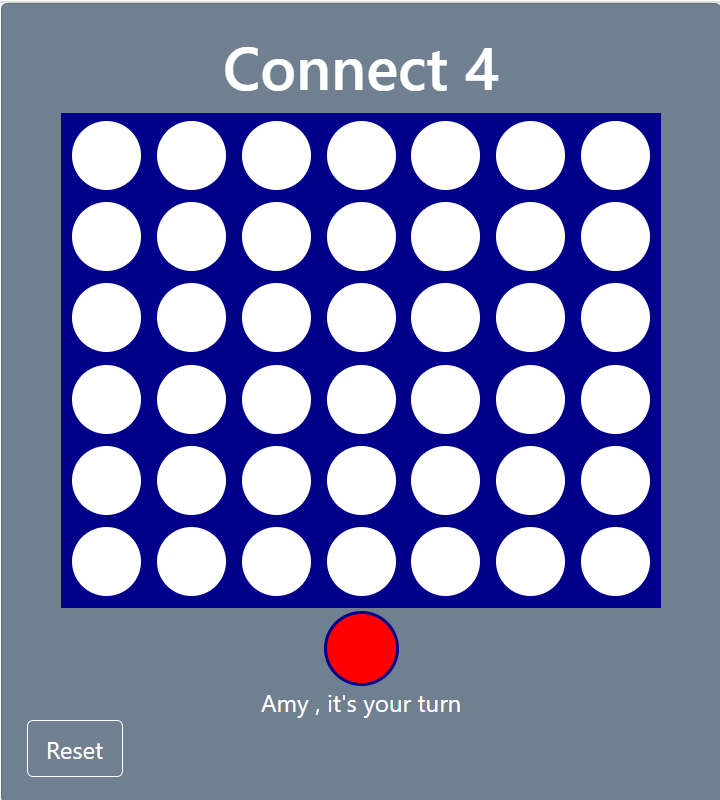
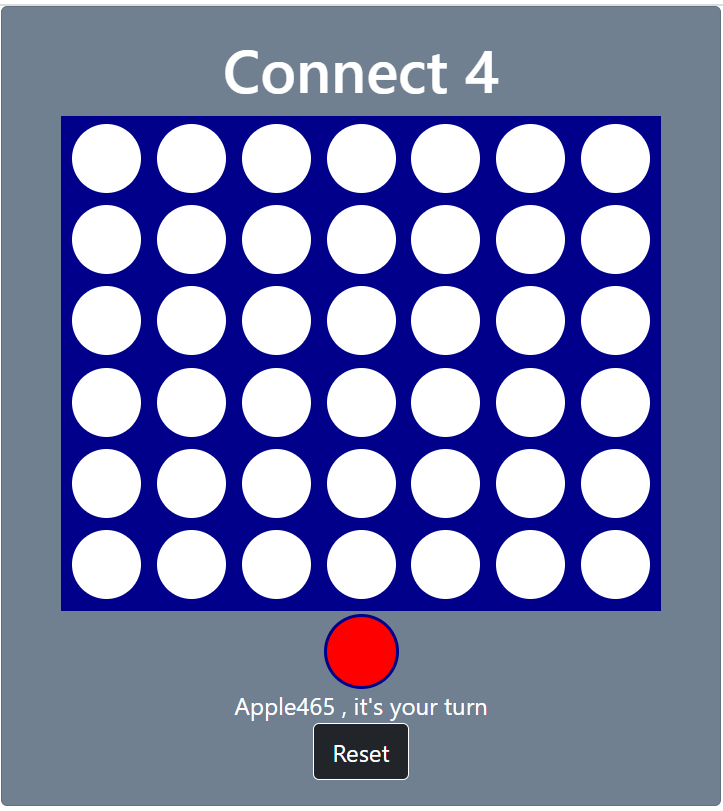
Change Reset button layout

diff --git a/Connect4/index.html b/Connect4/index.html
@@ -98,13 +98,14 @@
                 <span id="player-indicator-name"></span>
                 <span>, it's your turn</span>
             </div>
+            <div class="d-flex justify-content-center">
+                <button type="button" class="btn btn-outline btn-dark d-block align-self-start"
+                    style="color: white; border: 1px white solid" id="reset-button">Reset</button>
+                <button type="button" class="btn btn-outline btn-dark playAgainButton d-none align-self-end"
+                    style="color: white; border: 1px white solid" id="playAgainButtonOutside">Play Again</button>
+            </div>
 
-            <button type="button" class="btn btn-outline-primary d-block" style="color: white; border: 1px white solid"
-                id="reset-button">Reset</button>
-            <button type="button" class="btn btn-outline-primary playAgainButton d-none"
-                style="color: white; border: 1px white solid" id="playAgainButtonOutside">Play Again</button>
         </div>
-
 
     </div>
 
@@ -140,9 +141,8 @@
                     </form>
                 </div>
                 <div class="modal-footer">
-                    <!-- <button type="button" class="btn btn-secondary" data-dismiss="modal">Close</button> -->
-                    <button type="button" class="btn btn-primary" id="userNameInputButton">Enter</button>
-                    <!-- <input type="submit" value="Enter"> -->
+                    <button type="button" class="btn btn-outline btn-dark" id="userNameInputButton"
+                        style="color: white; border: 1px white solid;">Enter</button>
                 </div>
             </div>
         </div>
@@ -155,10 +155,10 @@
             <div class="modal-content" style="background-color: darkblue;">
                 <div class="modal-body">
                     <span id="winner-name"></span> (<span id="winner-color"></span>) wins in <span
-                        id="winner-score"></span> turns.
+                        id="winner-score"></span> turns!😇
                 </div>
                 <div class="modal-body">
-                    <button type="button" class="btn btn-secondary" data-dismiss="modal" data-toggle="modal"
+                    <button type="button" class="btn btn-outline btn-dark" data-dismiss="modal" data-toggle="modal"
                         data-target="#scoreBoard" id="scoreBoardButton">OK</button>
                 </div>
             </div>
@@ -171,10 +171,10 @@
         <div class="modal-dialog modal-dialog-centered" role="document">
             <div class="modal-content" style="background-color: darkblue;">
                 <div class="modal-body">
-                    Nobody wins.
+                    Nobody wins 😢
                 </div>
                 <div class="modal-body">
-                    <button type="button" class="btn btn-secondary" data-dismiss="modal" data-toggle="modal"
+                    <button type="button" class="btn btn-outline btn-dark" data-dismiss="modal" data-toggle="modal"
                         data-target="#scoreBoard" id="scoreBoardButtonNobody">OK</button>
                 </div>
             </div>
@@ -201,10 +201,10 @@
                     </table>
                 </div>
                 <div class="modal-body">
-                    <button type="button" class="btn btn-secondary playAgainButton" data-dismiss="modal"
+                    <button type="button" class="btn btn-outline btn-dark playAgainButton" data-dismiss="modal"
                         id="playAgainButton">Play
                         Again</button>
-                    <button type="button" class="btn btn-secondary" data-dismiss="modal"
+                    <button type="button" class="btn btn-outline btn-dark" data-dismiss="modal"
                         id="scoreBoardCloseButton">Close</button>
                 </div>
             </div>
